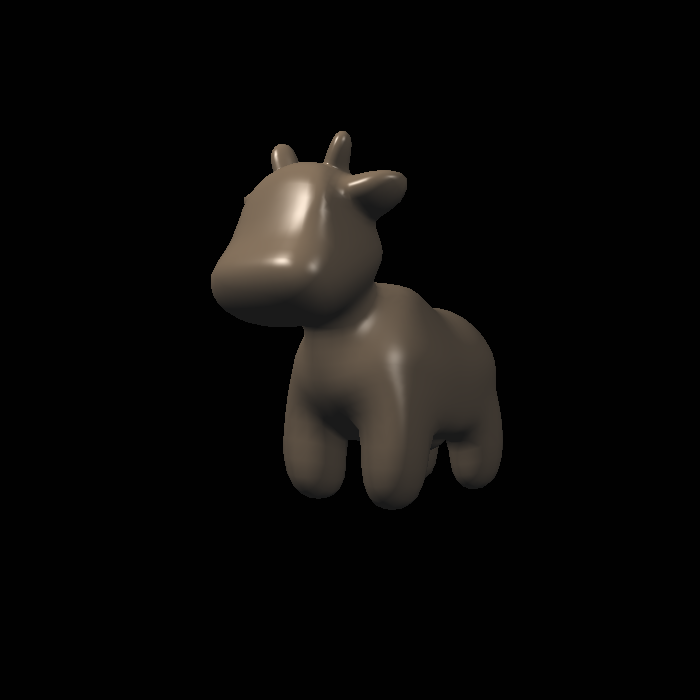
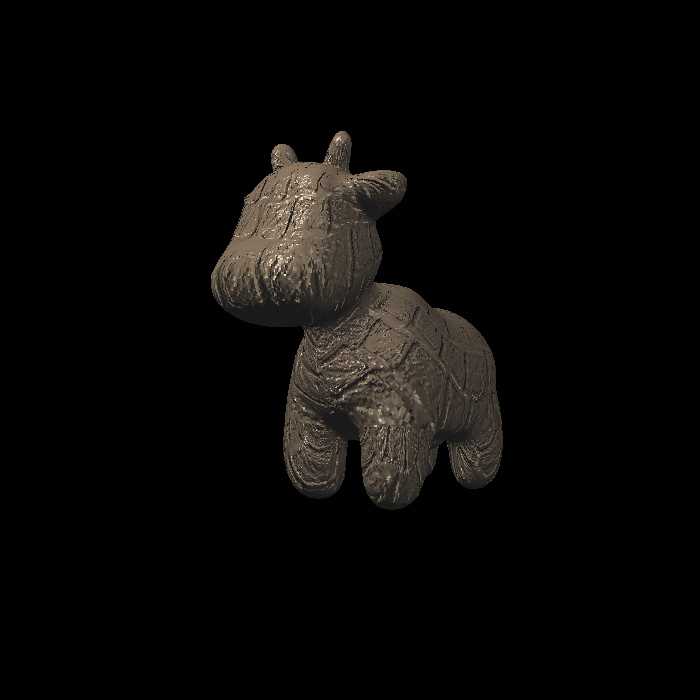
Bump mapping and displacement shader

diff --git a/Games101/src/utils.rs b/Games101/src/utils.rs
@@ -345,6 +345,24 @@ pub fn bump_fragment_shader(payload: &FragmentShaderPayload) -> V3f {
     // Vector ln = (-dU, -dV, 1)
     // Normal n = normalize(TBN * ln)
 
+    let normal = match payload.texture.as_ref() {
+        Some(tex) => {
+            let n = normal;
+            let (x, y, z) = (normal.x, normal.y, normal.z);
+            let (u, v) = (payload.tex_coords.x, payload.tex_coords.y);
+            let (w, h) = (tex.width as f64, tex.height as f64);
+            let t = Vector3::new(x*y/(x*x+z*z).sqrt(), (x*x+z*z).sqrt(), z*y/(x*x+z*z).sqrt());
+            let b = n.cross(&t);
+            let tbn = Matrix3::new(t.x, b.x, n.x, t.y, b.y, n.y, t.z, b.z, n.z);
+            let du = kh * kn * (tex.get_color(u+1.0/w, v).norm() - tex.get_color(u, v).norm());
+            let dv = kh * kn * (tex.get_color(u, v+1.0/h).norm() - tex.get_color(u, v).norm());
+            let ln = Vector3::new(-du, -dv, 1.0);
+            (tbn * ln).normalize()
+        }
+        None => normal,
+    };
+
+
     let mut result_color = Vector3::zeros();
     result_color = normal;
 
@@ -387,13 +405,39 @@ pub fn displacement_fragment_shader(payload: &FragmentShaderPayload) -> V3f {
     // Position p = p + kn * n * h(u,v)
     // Normal n = normalize(TBN * ln)
 
+    let normal = match payload.texture.as_ref() {
+        Some(tex) => {
+            let n = normal;
+            let (x, y, z) = (normal.x, normal.y, normal.z);
+            let (u, v) = (payload.tex_coords.x, payload.tex_coords.y);
+            let (w, h) = (tex.width as f64, tex.height as f64);
+            let t = Vector3::new(x*y/(x*x+z*z).sqrt(), (x*x+z*z).sqrt(), z*y/(x*x+z*z).sqrt());
+            let b = n.cross(&t);
+            let tbn = Matrix3::new(t.x, b.x, n.x, t.y, b.y, n.y, t.z, b.z, n.z);
+            let du = kh * kn * (tex.get_color(u+1.0/w, v).norm() - tex.get_color(u, v).norm());
+            let dv = kh * kn * (tex.get_color(u, v+1.0/h).norm() - tex.get_color(u, v).norm());
+            let ln = Vector3::new(-du, -dv, 1.0);
+            (tbn * ln).normalize()
+        }
+        None => normal,
+    };
+
+    let v = (eye_pos - point).normalize();
     let mut result_color = Vector3::zeros();
     for light in lights {
         // LAB3 TODO: For each light source in the code, calculate what the *ambient*, *diffuse*, and *specular* 
         // components are. Then, accumulate that result on the *result_color* object.
-
-        
+        // let r = (light.position - point).norm() + (point-eye_pos).norm();
+        // let r =(point-eye_pos).norm();
+        let r = (light.position - point).norm();
+        // let r = (light.position - point).norm() * (point-eye_pos).norm();
+        let l = (light.position - point).normalize();
+        let h = (v+l).normalize();
+        result_color += mul_resp(&ka, &amb_light_intensity)
+            + mul_resp(&kd, &(light.intensity/(r*r) * normal.dot(&l).max(0.0)))
+            + mul_resp(&ks, &(light.intensity/(r*r) * normal.dot(&h).max(0.0).powi(100)));
     }
+
 
     result_color * 255.0
 }
